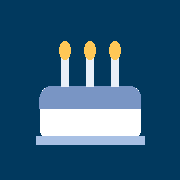
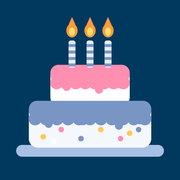
Add files via upload

diff --git a/sw.js b/sw.js
@@ -1,5 +1,5 @@
-const CACHE = "bday-shell-v3";
-const SHELL = ["./", "./index.html", "./manifest.webmanifest", "./icon-192.png", "./icon-512.png", "./apple-touch-icon.png"];
+const CACHE = "bday-shell-v4";
+const SHELL = ["./", "./index.html", "./manifest.webmanifest", "./icon-192.png", "./icon-512.png", "./apple-touch-icon.png", "./icon-maskable-512.png"];
 
 self.addEventListener("install", e => {
   e.waitUntil(caches.open(CACHE).then(c => c.addAll(SHELL)));
